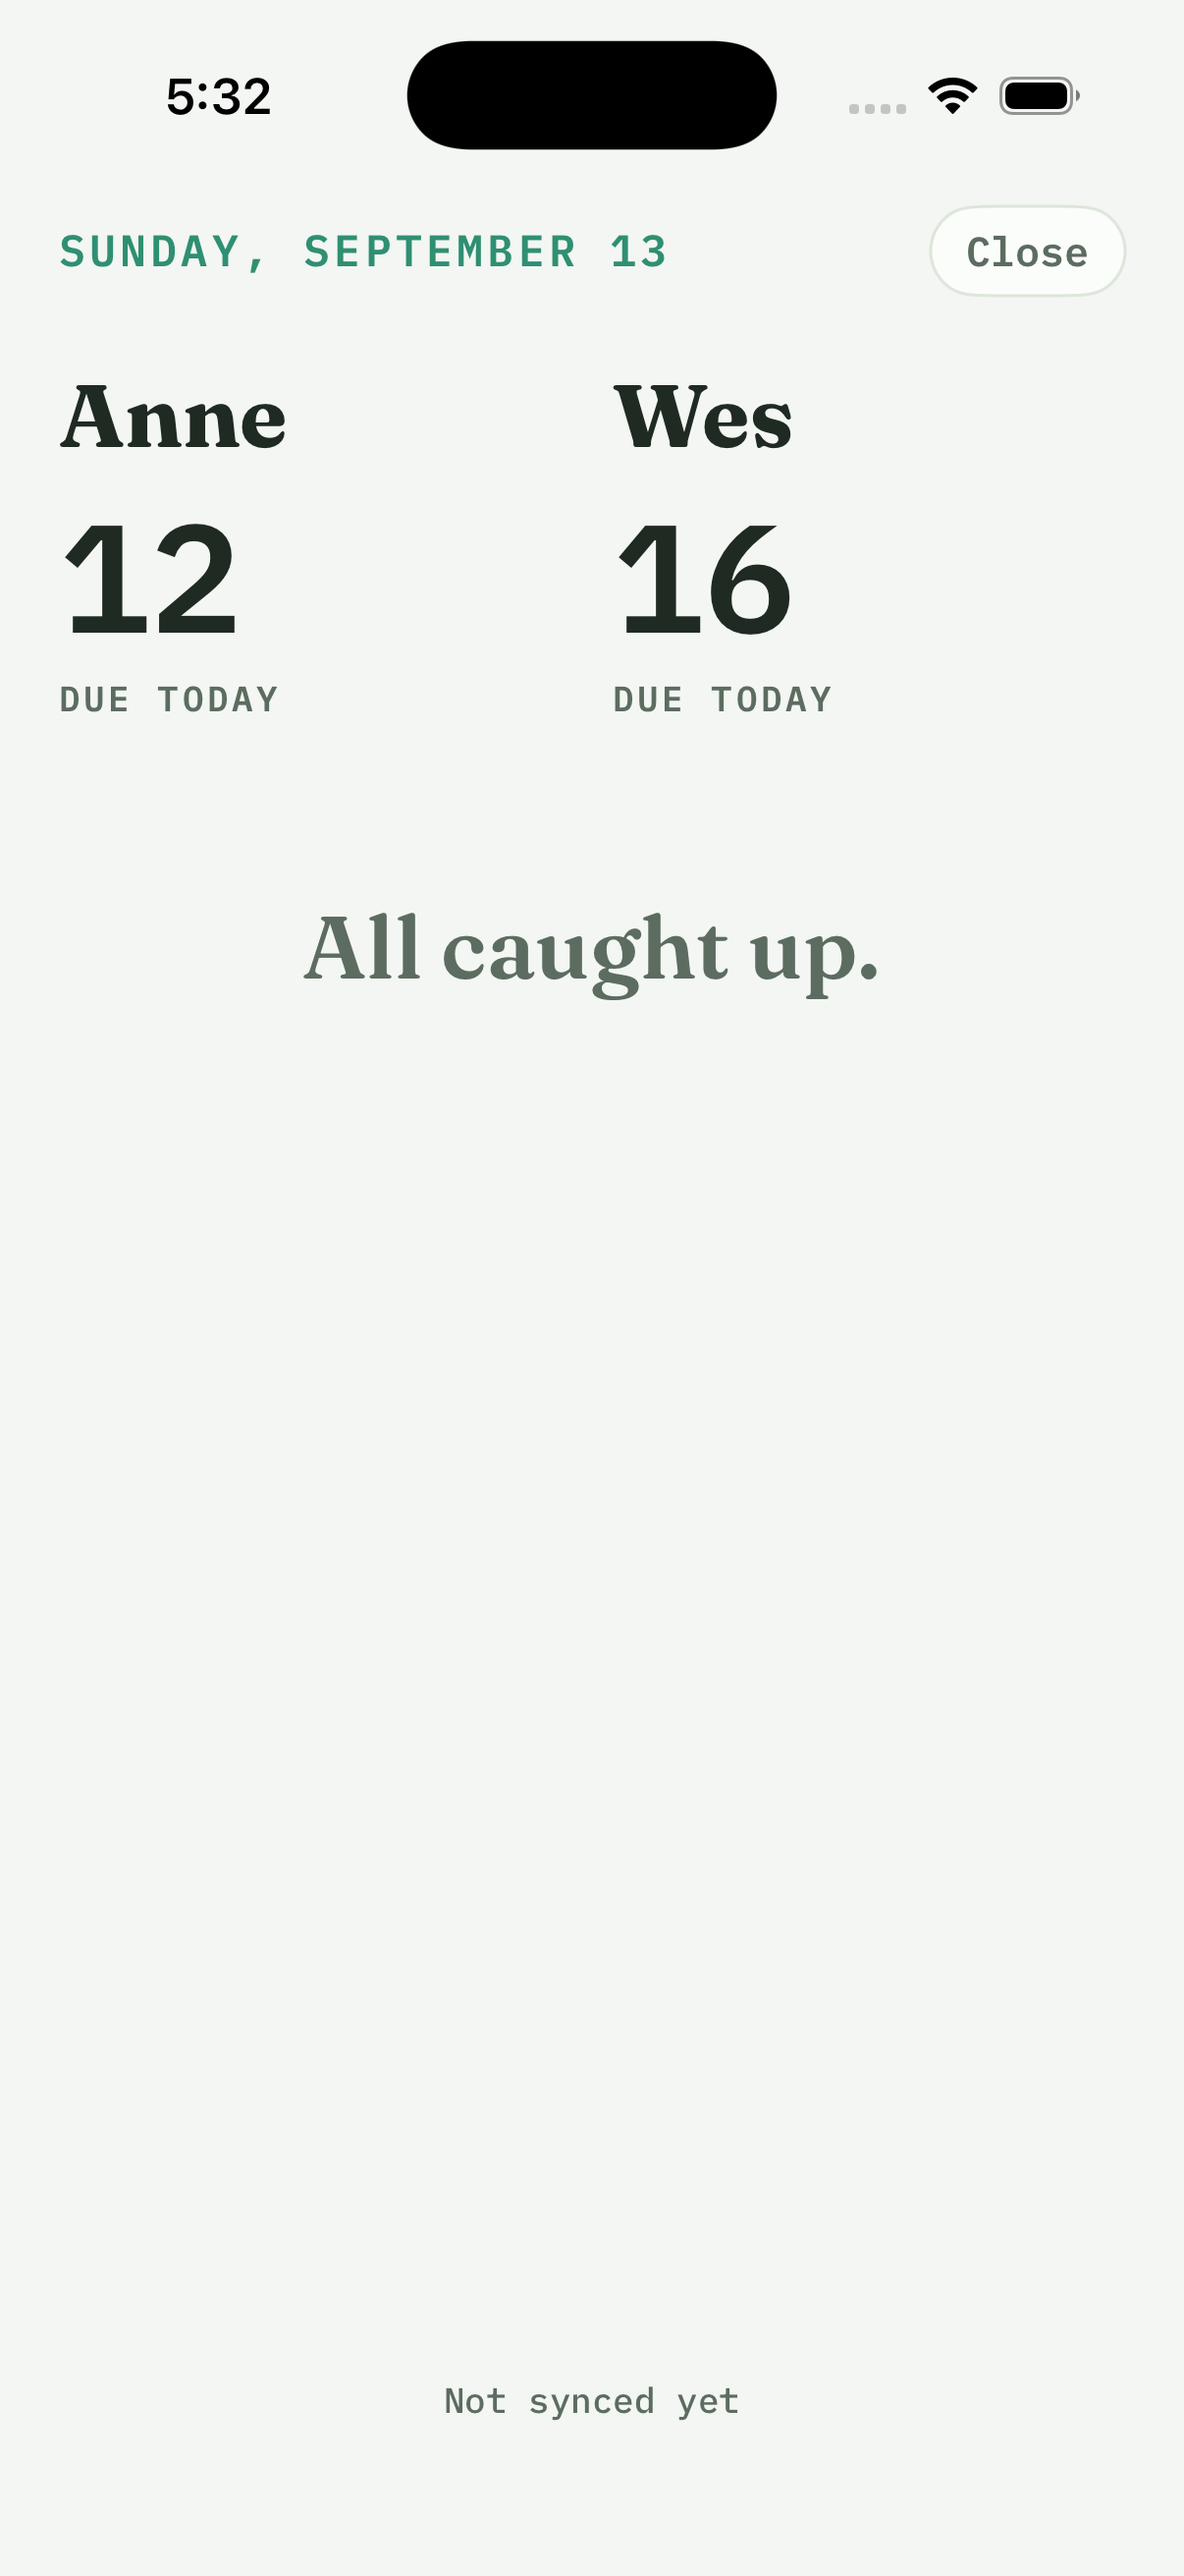
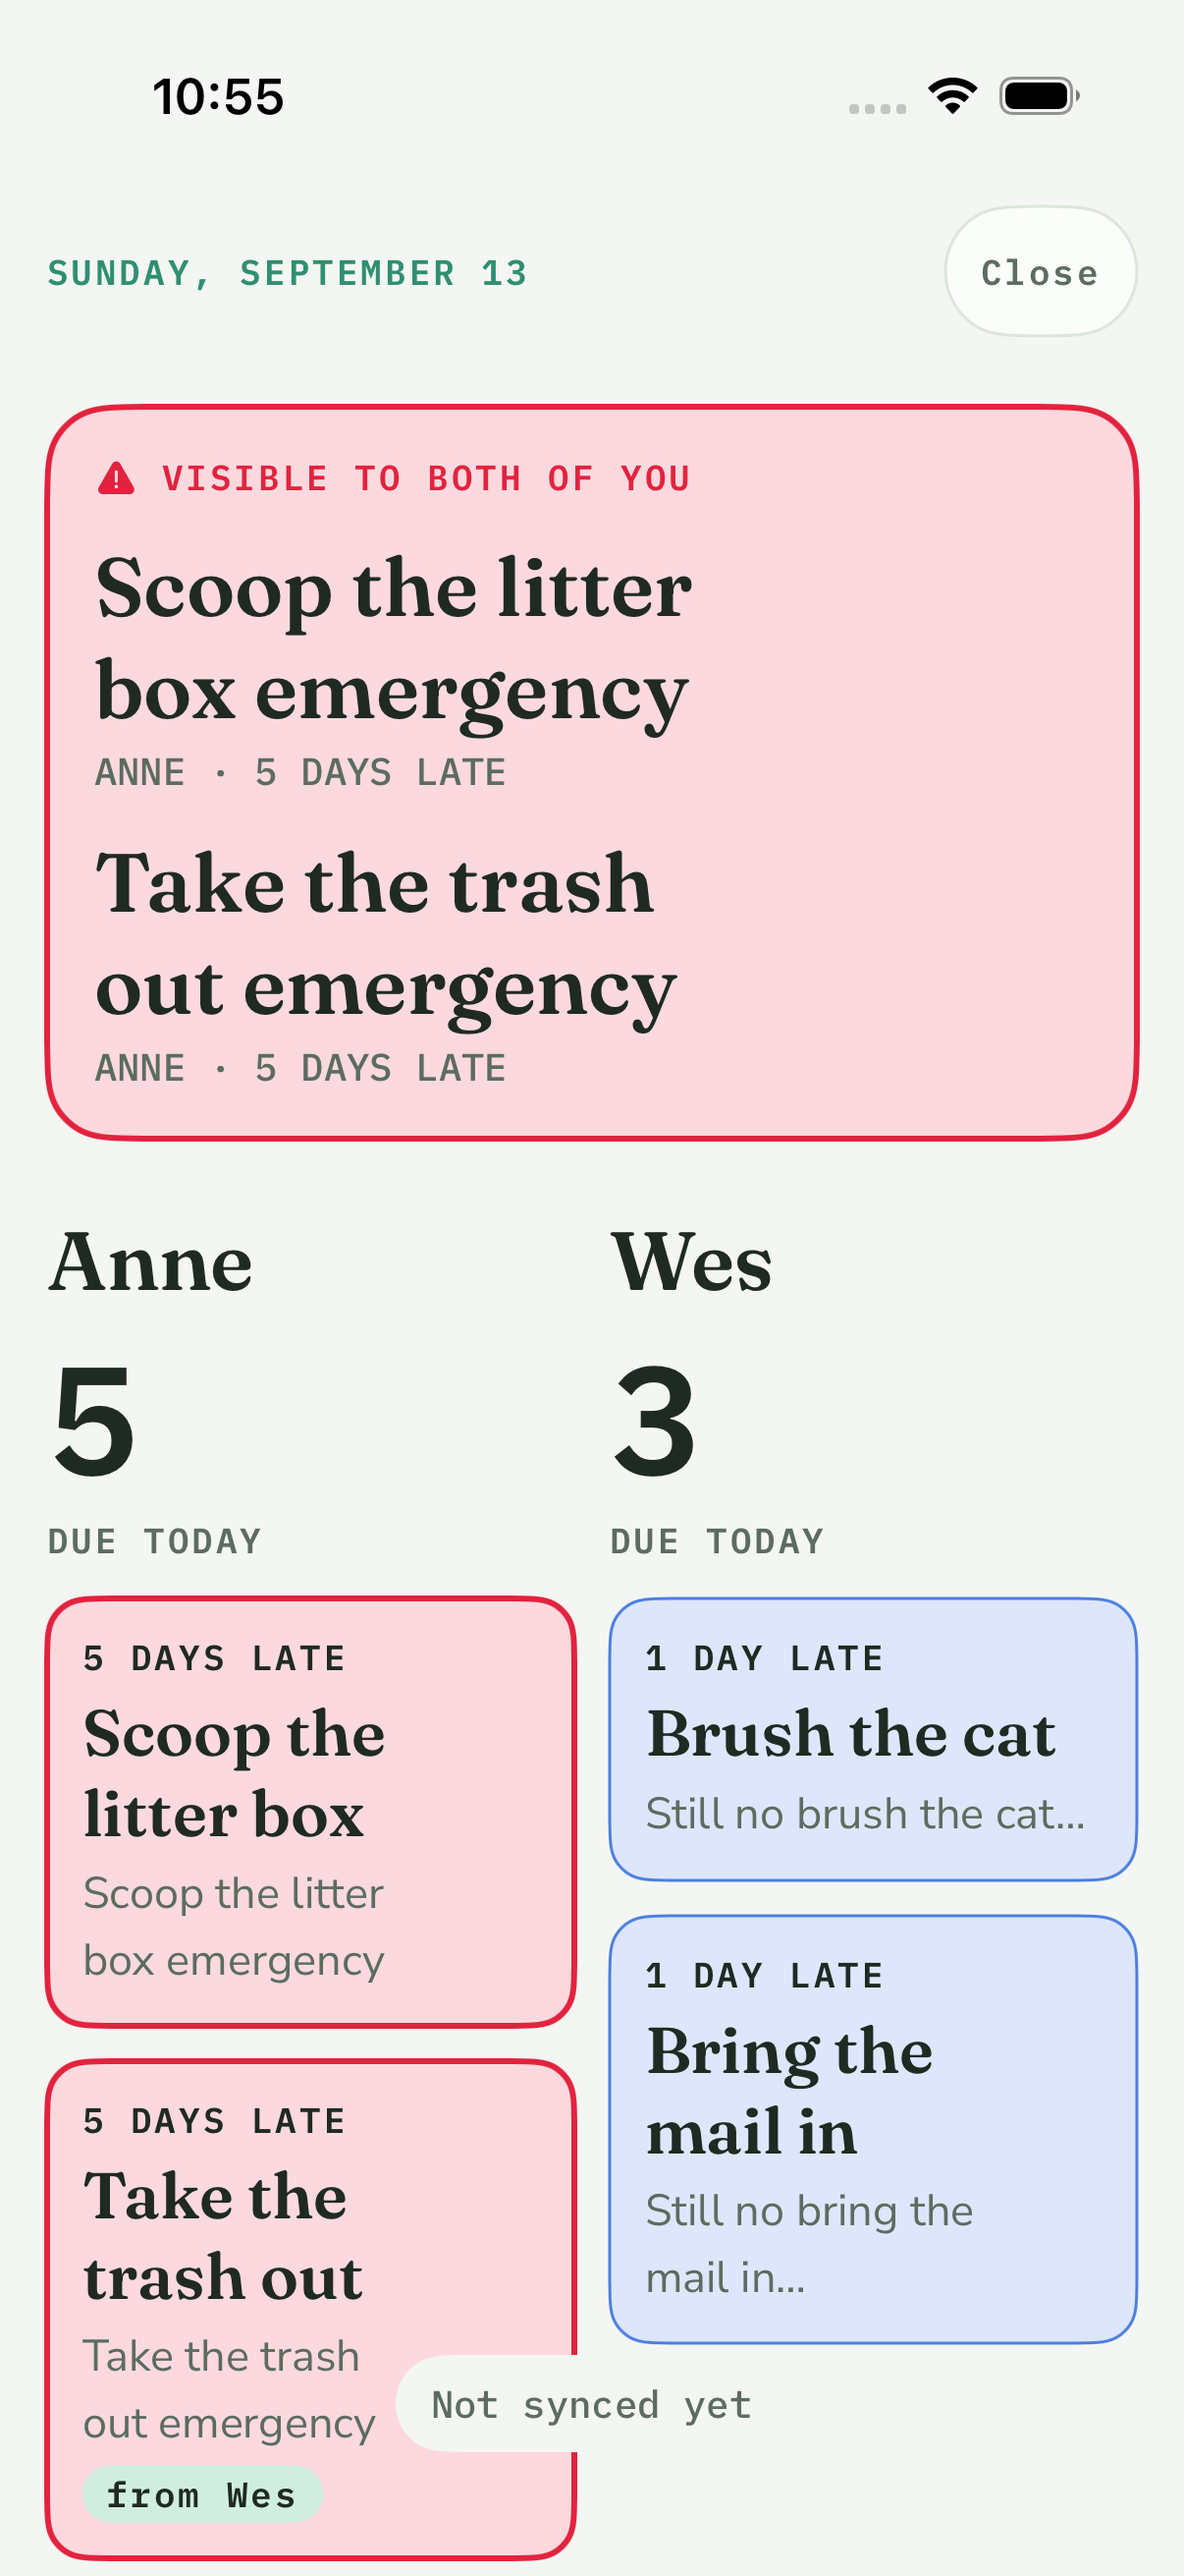
D-6: docs/kitchen.png is the restyled screen, from the fixture
The committed one predated the D-6 restyle and needed a local server to
reproduce. This is `-roostUITestState paired`, which anybody can take
with one command, and it shows the part of the restyle that matters: the
stage as the card's fill and border, the words in ink.

diff --git a/Roost/README.md b/Roost/README.md
@@ -37,8 +37,10 @@ colour only gets calmer going down the card. Wes's own column, its rows, and the
 instead of sitting side by side; further down, the person header stacks name / YOU / count and the week tally
 goes one line per person.
 
-Kitchen mode is a fresh, unpaired install with three of Anne's chores checked off (12 + 16 = 28 of 31 still due)
-and nothing overdue, so it shows the calm state.
+Kitchen mode is the `paired` UI-test fixture (`-roostUITestState paired`), so it is the one screenshot here
+anybody can reproduce with a single command: both alert-stage chores in the shared banner, then each person's
+column with the stage as the card's fill and border and the words in ink. D-6 replaced the old one, which
+predated the restyle and showed the calm "All caught up." state instead.
 
 The three list screens are paired as Anne against a local server, each in light and dark. Shopping has four rows still to buy over a Bought section with "Clear bought", and the header line reads "Synced just now" because the pass had only landed a moment before. Meals has one idea marked NEXT UP and three with a tag and a "last made" line, one of them a weekday and one a date. Projects has a finished card open (DONE chip, full bar, Archive) over a second card at 2/4.
 
@@ -150,7 +152,7 @@ Roost/
   docs/shopping.png           simulator screenshot, Shopping tab; docs/shopping-dark.png is the same screen in dark mode
   docs/meals.png              simulator screenshot, Meals tab; docs/meals-dark.png in dark mode
   docs/projects.png           simulator screenshot, Projects tab; docs/projects-dark.png in dark mode
-  docs/kitchen.png            simulator screenshot, Kitchen mode (unpaired, three chores checked off, nothing overdue: "All caught up.")
+  docs/kitchen.png            simulator screenshot, Kitchen mode, from the `paired` UI-test fixture
   docs/widget-small.png       the small family, rendered in the simulator by WidgetRenderTests
   docs/widget-medium.png      the medium family, the same way
 ```
